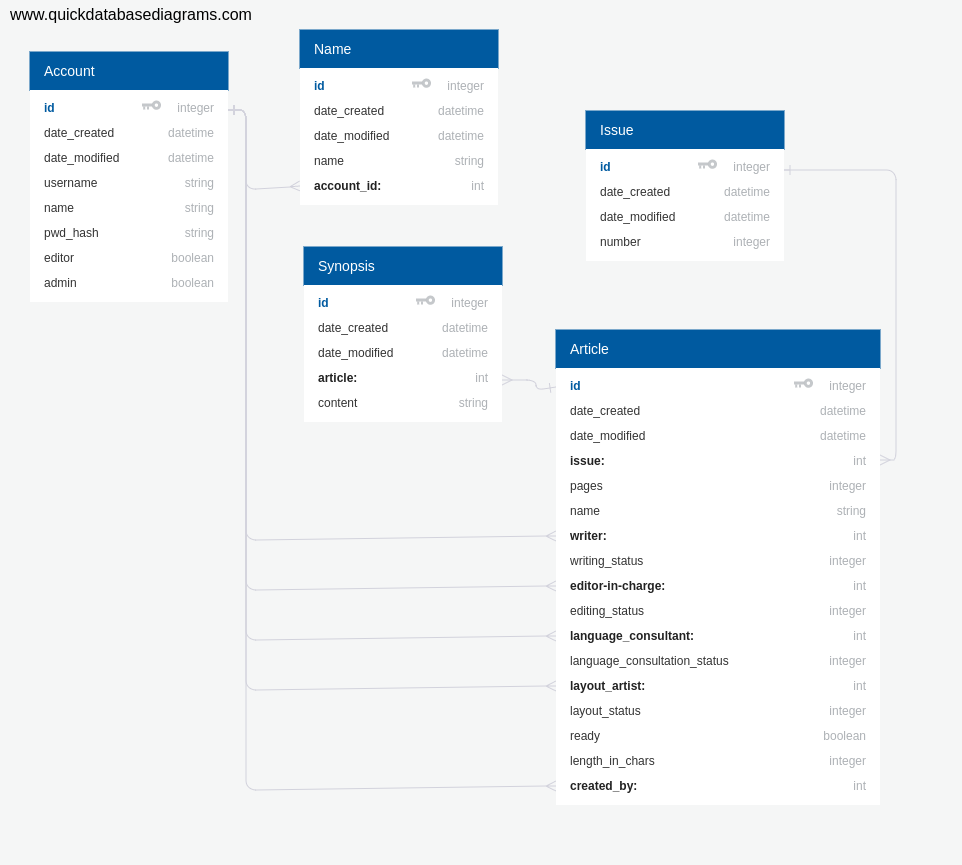
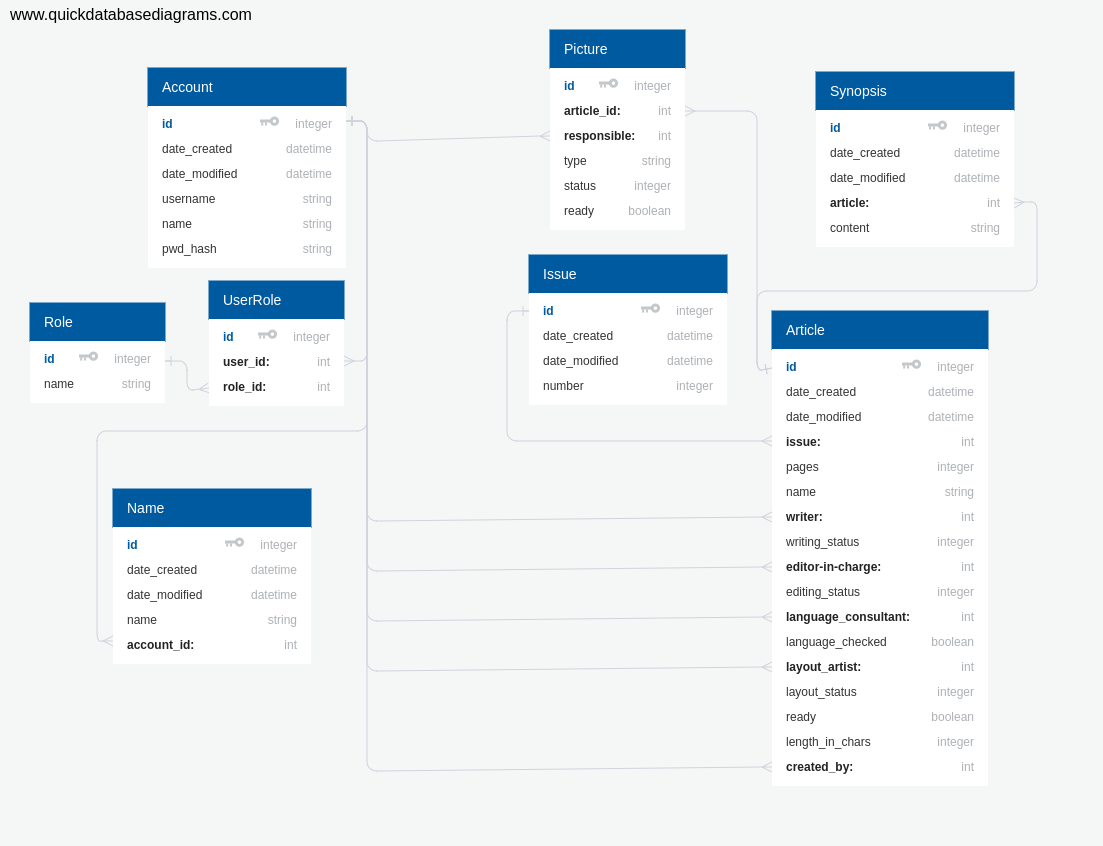
updating documentation

diff --git a/documentation/HowToUse.md b/documentation/HowToUse.md
@@ -1,31 +1,54 @@
 How to Use
 ==========
 
-SkrolliEditor application supports three types of user accounts: **admin**, **editor** and **assistant**. Admins are also editors always. Assistant accounts do not have any special previledges, and at the moment; they can only view the content in the system and not manipulate it. Editor accounts have all the priviledges to manipulate the data except to delete users, issues and articles. Only admins can delete them. Newly registered users have assistant accounts, and at the moment (23.8.2018), there is no way to give previledges to accounts via the user interface.
+SkrolliEditor application supports six types of user accounts: **admin**, **editor**, **language consultant**, **picture editor** and **assistant**. Admin has all the other roles as well. Assistant accounts do not have any special previledges, and at the moment; they can only view the content in the system and not manipulate it. Only picture editor can mark pictures ready, and only language consultants can mark articles 'language checked' i.e. 'Finished'. Editor accounts have all the other priviledges to manipulate the data except to delete users, issues and articles. Only admins can delete them. Admin can make other registered users editors. At the moment, there is no way to make other users picture editors or language consultants. Newly registered users have assistant accounts.
 
 Users can access different content via the dropdown menus on the top of the page, in the navbar.
 
 
 ## The article view
 
-The article views show the articles separated into five different categories: planned, draft, written, edited and finished. The **status** of the article determines which category the article belongs to.
+The article views show the articles separated into five different categories: planned, draft, written, edited and finished. The **status** of the article determines which category the article belongs to. When the article is written, edited and 'language checked', it belongs to the 'Finished' category.
 
-By clicking the article title in the article view, the article card opens and shows information about the article. **JavaScript must be enabled** in the browser. The picture-pill in the article card header does not have any meaning yet.
+By clicking the article title in the article view, the article card opens and shows information about the article. **JavaScript must be enabled** in the browser.
+
+The article card title shows a small pill saying either "no pics" or "pics". The color of this pill represents the status of the article's pictures. By clicking the pill or the "More" button in the open article card user can see the overall view of the article.
 
 The two progress bars represent the **writing status** and the **editing status** of the article. Editors can change these by using the sliders under the progress bars (visible only to editors). After adjusting the sliders, editor must press the "update sliders" button to apply the change.
 
-When article is created, it belongs to the 'planned' category. When writing has been started (status is something else than 0 %), article moves into the 'draft' category. When writing status is 100 %, article is 'written'. Bringing the editing status to 100 % moves it to the 'edited' category. There is no way, at the moment, to mark the article as 'finished'. Note that the editing status can never be higher than the writing status, as content that has not been written can not be edited.
+When article is created, it belongs to the 'planned' category. When writing has been started (status is something else than 0 %), article moves into the 'draft' category. When writing status is 100 %, article is 'written'. Bringing the editing status to 100 % moves it to the 'edited' category. In this view, articles can not be moved to the 'Finished' category.
+
+Note that the editing status can never be higher than the writing status, as content that has not been written can not be edited.
 
 An **orphan article** means an article that belong to no particular issue.
+
+## The (view as) langauge consultant page
+
+The page lists all the articles that are both written and edited but not 'language checked'. On the page, a language consultant can 'grab' articles that are written and edited (but not language checked). Grabbing means that they indicate to other language consultant they are working on that article. Once they have grabbed an article, they can mark their work as ready: the article becomes 'language checked' and in the article view, it is moved in to the 'Finished' section.
+
+## The (view as) picture editor page
+
+The page lists all the pictures whose status is 100 but are not marked ready. On the page, a picture editor can mark those pictures ready.
+
+## The pictures view
+
+The pictures view small all the pictures in the system as cards that can be opened. The title tells what type of picture it is and the name after the arrow tells the name of the article it belongs to.
+
+There is a small pill that says "text" on the card header. Its color indicates the status of the article's text. By clicking the pill or the More button on the opened card, user can see the overall view of the article the picture belongs to.
+
+When the card is opened, there is a progress bar that indicates this pictures status. Editors can change this by using the slider that is only visible to them, just like in the article view.
 
 ## The users view
 
 The users view shows all the users in the system. The users with no username are so-called 'dummy users', that can be set as a writer of an article, but that can not be used to log into the system. The users can have aliases, which do not have any meaning at the moment. (Later, there will be a search function that uses the aliases.)
 
 Editors can add new dummy users to the system and add and remove aliases to/from all existing users.
-Admin can delete users.
+Admin can delete users and make registered users editors or remove editor privilegres from editors (including themselves at the moment).
 
 By clicking the name of an user in the list, one can access the **'tasks page'** of that user. It shows what articles that user is writing and editing.
+
+Editors see an 'edit' link next to the username. They can add and remove aliases to the user on the page behind the link.
+
 
 ## The issues view
 
@@ -33,7 +56,7 @@ The issues view shows all the current **magazine issues** in the system. Editors
 
 ## My page
 
-The 'my page' view is same as the **tasks page** for your account. Naturally, you can only access 'my page' if you have logged-in to the system.
+The 'my page' view is same as the **tasks page** for your account. Naturally, you can only access 'my page' if you have logged-in to the system. The page shows articles you are writing, article's you are editing, pictures you are responsible of, and language editors see the articles they have 'grabbed' on this page as well.
 
 ## The forms in the system
 
@@ -41,6 +64,8 @@ A red start bedisides the form field label indicates that the field is required.
 
 ## Deleting articles and issues
 
-Admin can delete an article by clicking the delete-button on the bottom left on the article card. The system will show no warning but deletes the article instantly.
+Admin can delete an article by clicking the delete-button on the bottom left on the article card. All the pictures related to that article are deleted as well. The system will show no warning but deletes the article instantly.
+
+Admin can delete a picture by clicking the delete-button on the botton left on the picture card. The system will show no warning.
 
 Admin can delete an issue by cliking the red 'x' button on the bottom right on the issue card. The system will show no warning but deletes the issue instantly. All the articles that belonged to the issue will be made **orphans**.

diff --git a/documentation/UserStories.md b/documentation/UserStories.md
@@ -6,19 +6,13 @@
 
 **Issue** refers to a magazine issue.
 
-An **admin** is always an **editor** as well.
+An **admin** is always an **editor**, **language consultant** and **picture editor** as well (not enforced).
+
+A **picture editor** is always an **editor** as well (not enforced).
 
 ## As a user
 
 - [x] I can create an account, so that I can be logged-in.
-
-## As a user who has an account
-
-- [x] I can log-in so that I can do things I otherwise could not.
-
-## As a logged-in user
-
-- [x] I can change the name and password associated to my account.
 - [x] I can see articles in the system.
   - [x] I can see the article's name
   - [ ] I can see the article's title, subtitle and table-of-contents text
@@ -27,18 +21,22 @@ An **admin** is always an **editor** as well.
   - [ ] I can see the language consultant of the article
   - [ ] I can see the layout artist of the article
   - [x] I can see the writing status, editing status of the article
-  - [ ] I can see the language consultation status and all-around (layout) status of the article
+  - [x] I can see the language consultation status of the article
+  - [ ] I can see the layout status of the article
   - [ ] I can see the amount of pages of the article
+
+## As a user who has an account
+
+- [x] I can log-in so that I can do things I otherwise could not.
+
+## As a logged-in user
+
+- [x] I can change the name and password associated to my account.
+
 - [x] I can see the unfinished tasks I am related to, so that I know what I have yet to be done.
   - [x] I can see the unfinished articles whose writer I am.
-  - [ ] I can see the unfinished articles whose language consultant I am.
-  - [ ] I can see the unfinished picture units whose artist I am.
-- [ ] I can edit the status of a task I am related to, so that I can let other people know of my progress.
-  - [ ] As a writer, I can edit the article's writing status
-  - [ ] As a language consultant, I can edit the article's language consultation status
-  - [ ] As an artist, I can edit the picture unit's completition status
-- [ ] I can request editor previledges
-- [ ] I can request to be associated with an existing dummy-account
+  - [x] I can see the unfinished articles whose language consultant I am.
+  - [x] I can see the unfinished picture units whose artist I am.
 
 ## As a logged-in user who is an editor
 
@@ -50,8 +48,6 @@ An **admin** is always an **editor** as well.
   - [x] I can associate the article to an issue
   - [x] I can associate an editor as the editor-in-charge of the new article.
   - [x] I can associate a person as the writer of the new article.
-  - [ ] I can associate a person as the language consultant of the new article.
-  - [ ] I can associate an editor as the layout artist of the new article.
   - [ ] I can give the new article a title, subtitle and a table-of-contents text.
   - [ ] I can give the new article an amount of pages.
   - [x] I can give the new article a writing status.
@@ -68,22 +64,32 @@ An **admin** is always an **editor** as well.
   - [x] I can edit the writing status of the article.
   - [x] I can edit the editing status of the article.
   - [x] I can edit the synopsis of the article.
-  - [ ] I can edit the language consultation status of the article.
-  - [ ] I can edit the layout artist of the article.
   - [ ] I can edit the amount of pages of the article.
-  - [ ] I can edit the title of the article.
-  - [ ] I can edit the subtitle of the article.
-  - [ ] I can edit the table-of-contents text of the article.
 - [x] I can see what tasks other users have been associated with, so that I can get a feeling of how they are proceeding.
-- [ ] I can grant editor previledges to another user
-- [ ] I can associate a registered user with a dummy-account
-- [ ] I can update info of a picture unit
-  - [ ] I can update the progress status of a picture unit
-  - [ ] I can update the description of a picture unit
-  - [ ] I can update the person responsible for a picture unit
+- [x] I can update info of a picture unit
+  - [x] I can update the progress status of a picture unit
+  - [x] I can update the description of a picture unit
+  - [x] I can update the person responsible for a picture unit
+
+## As a logged-in user who is a language consultant
+
+- [x] I can mark myself as the language consultant of an article that is 100% written and edited so that other language consultants know not to language check this article
+- [x] I can mark articles whose language consultant I am as being language-checked
+
+## As a logged-in user who is a picture editor
+
+- [x] I can mark pictures that are 100% done (status is 100) as being ready
+
+## As a logged-in user who is a layout artist
+
+- [ ] I can mark articles that are language-checked and whose pictures are ready as ready.
 
 ## As a logged-in user who is an admin
 
 - [x] I can delete issues from the system
 - [x] I can delete articles from the system
-- [ ] I can remove a picture unit, so that if I create a reduntant picture unit or if a picture order is cancelled, it will not be left hanging in the system, confusing users.
+- [x] I can grant editor previledges to another user
+- [x] I can take editor previledges away from a user
+- [x] I can remove a picture unit, so that if I create a reduntant picture unit or if a picture order is cancelled, it will not be left hanging in the system, confusing users.
+- [x] I can remove users
+- [ ] I can associate a registered user with a dummy-account

diff --git a/documentation/Deployment.md b/documentation/Deployment.md
@@ -9,24 +9,13 @@ Git clone the repository to your computer and access it.
 
 Set up the virtual environment. If you are using unix, run command ```python3 -m venv venv```. Then artivate it by running ```source venv/bin/activate```. Now, you area ready to install all the dependencies required by the application by running command ```pip install -r requirements.txt```.
 
+Go in the application repository and create file named ```.env``` there, and in the file, write ```ADMIN_PW="PASSWORD"``` where you replace 'PASSWORD' with a password of you choosing.
+
 ## Running the application locally
 
-While in the virtual environment, run the application locally by running command ```python3 run.py``` on the top of the project repository. This initiates the database. Press ```Ctrl + C``` the stop the application.
+While in the virtual environment, run the application locally by running command ```python3 run.py``` on the top of the project repository.
 
-Now, you want to create an admin account to your local database. Follow the instructions on **"Hashing password"** and come back here.
-
-If you don't have **sqlite3** installed, install it. Access the database by running command ```sqlite3 application/database.db``` on the top of the repository. Insert line 
-
-```
-INSERT INTO account (id, name, username, password, editor, admin) VALUES (1, 'Admin', 'admin', '$2b$12$0YH45mcGKYzfb1BcIQjOvextKhfbDbmRQJ2TXb2G8aM1nYxYJep5y', 1, 1);
-```
-where the long string of random looking characters is replaced with your hashed password.
-
-Now you can disconnect by entering ```.exit```.
-
-Start the application again by running command ```python3 run.py```. In your browser, go to address ```localhost:5000```. Your application is running there.
-
-Now you can log in with username 'admin' and the password of your choosing.
+In your browser, go to address ```localhost:5000```. Your application is running there. Now you can log in with username 'admin' and the password of your choosing.
 
 ## How to put your own version of the application online, using Heroku
 
@@ -42,6 +31,8 @@ It's a good idea to check out first that the address you want is not in use alre
 
 ```cd``` into the the project repository and run ```heroku create ADDRESSNAME``` where you replace ADDRESSNAME with the address of your choosing.
 
+Run ```heroku config:set ADMIN_PW="PASSWORD"``` where you replace 'PASSWORD' with a password of your choosing.
+
 Then let git know about Heroku by running ```git remote add heroku```. Push everything to Heroku by running ```git push heroku master```.
 
 Create the database by running
@@ -50,32 +41,6 @@ heroku config:set HEROKU=1
 heroku addons:add heroku-postgresql:hobby-dev
 ```
 
-Follow the instructions on **"Hashing password"** an come back to here.
 
-Now, in your project repository, connect to the heroku database by run command
-```
-heroku pg:psql
-```
-There, paste the following line:
-```
-INSERT INTO account (id, name, username, password, editor, admin) VALUES (1, 'Admin', 'admin', '$2b$12$0YH45mcGKYzfb1BcIQjOvextKhfbDbmRQJ2TXb2G8aM1nYxYJep5y', True, True);
-```
-where the long string of random looking characters is replaced with your hashed password.
 
-Now you can disconnect by entering ```\q```.
-
-Now you can use your browser and go to ```http://ADDRESSNAME.herokuapp.com``` and log in with username 'admin' and the password of your choosing.
-
-## Hashing password
-
-To create an admin account, you have to choose a password and hash it.
-To do this, open an interactive python interpreter by running ```python3```.
-Then in the interactive python interpreter, run ```import bcrypt``` and
-```
-bcrypt.hashpw('MYPASSWORD'.encode('utf-8'), bcrypt.gensalt()).decode('utf-8')
-```
-where you replace MYPASSWORD with a password of your choosing.
-Copy the string of characters that follows, which is the hashed password. It should be of the format
-```$2b$12$0YH45mcGKYzfb1BcIQjOvextKhfbDbmRQJ2TXb2G8aM1nYxYJep5y```
-
-Close the interactive python interpreter by running ```exit()```.
+Now you can use your browser and go to ```http://ADDRESSNAME.herokuapp.com``` and log in with username 'admin' and the password of your choosing. Change the admin password after logging in.

diff --git a/documentation/Implementation.md b/documentation/Implementation.md
@@ -1,0 +1,10 @@
+On implementation
+=================
+
+The forms in the project make POST request mostly to the **same address they appear in**. Hidden input fields with descriptive names tell the request handler what the request is in question.
+
+There application uses a macros called ```articlecard_macro.html``` and ```picturecard_macro.html```. They represent the cards that can be seen on different pages of the website. They are used throughout the different pages. They include forms, and for that reason, the same request can be directed to different addresses, there is a centralized POST request handler called ```react_to_post_request.py```. The handler handles other request besides the one coming from the cards as well.
+
+Many of the more complicated database queries are located in the ```help.py``` module. It also contains various methods used throughout the application.
+
+I have tried to refactor longer methods into smaller ones, and in some cases, the result of that has created the ```views_helper.py``` modules.

diff --git a/documentation/TimeUsage.md b/documentation/TimeUsage.md
@@ -160,7 +160,7 @@ Daily time usage
 
 ## Week 6, 27.-31.8.2018
 
-**Total: 24h**
+**Total: 32h**
 
 * Monday 5 h
   * Feature: Picture units
@@ -172,11 +172,14 @@ Daily time usage
   * feature: picture editor can mark pictures ready
   * feature: language_consultant can set themselves as the language consultant of an article
   * feature: language_consultant of an article can mark it language_checked
-  * TODO: admin can make users editors, language consultant, picture editors and layout artists
 * Wednesday 8h?
   * starting to implement putting user roles into a separate database table
 * Thursday 1h
   * demo
-* Friday
+* Friday 8h?
+  * Finished making separate table for user roles. Now it works. Fixed a lot of bugs.
+  * Merged to master. Fixed some more bugs.
+  * Updated documentation.
+  * Feature: admin can make users editors and not-editors
   * TODO: picture status can not be changed if picture is marked ready
   * TODO: article status can not be changed if language_checked = True

diff --git a/README.md b/README.md
@@ -1,6 +1,8 @@
 # SkrolliEditor
 
-Web application to help the editorial process of Skrolli
+This is a school project for Helsinki University's course Database Application.
+
+A web application to help the editorial process of Skrolli
 
 https://skrollieditor.herokuapp.com/
 
@@ -15,6 +17,10 @@ https://skrollieditor.herokuapp.com/
 [How to use](/documentation/HowToUse.md)
 
 [Deployment](/documentation/Deployment.md)
+
+[Database diagram](/documentation/Database/DatabaseDiagram.png)
+
+[On implementation](/documentation/Implementation.md)
 
 ## Project definition
 

diff --git a/documentation/Queries.md b/documentation/Queries.md
@@ -1,0 +1,21 @@
+The course requires these...
+===========================
+
+Check out ```application/help.py```.
+
+Deletion of a name with id 1:
+```
+DELETE FROM name WHERE id = 1;
+```
+
+Insertion of a new name for user whose id is 1:
+```
+INSERT INTO name (name, user_id) VALUES ('Pekka', 1);
+```
+
+Updating name of user with id 1:
+```
+UPDATE account
+SET name = "Uusi nimi"
+WHERE id = 1;
+```
